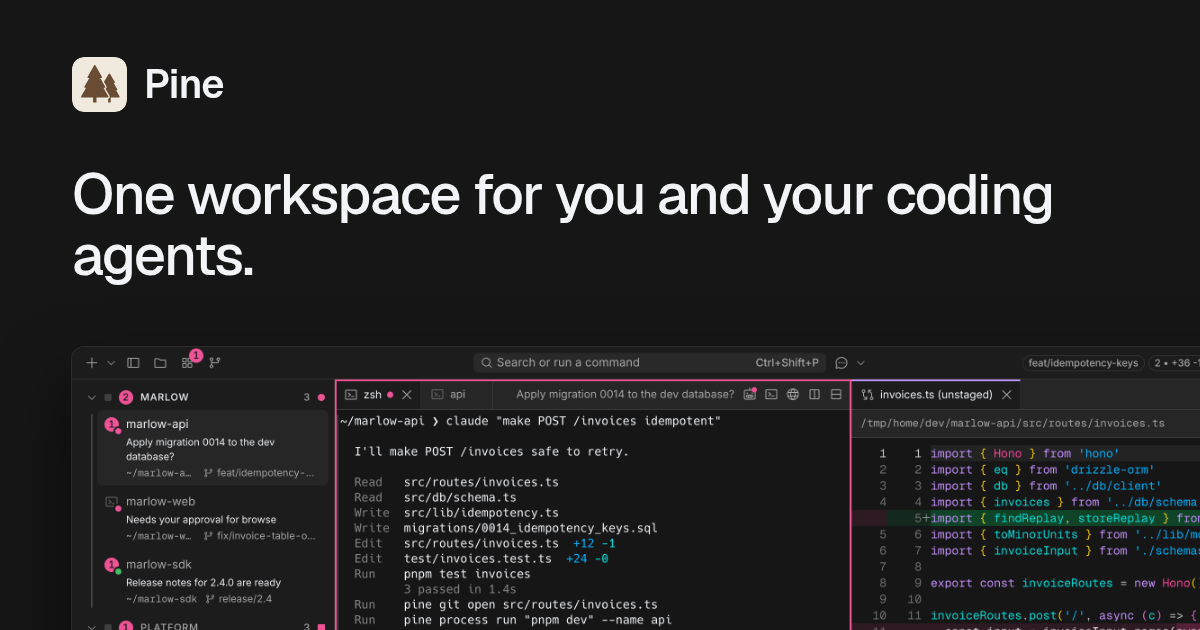
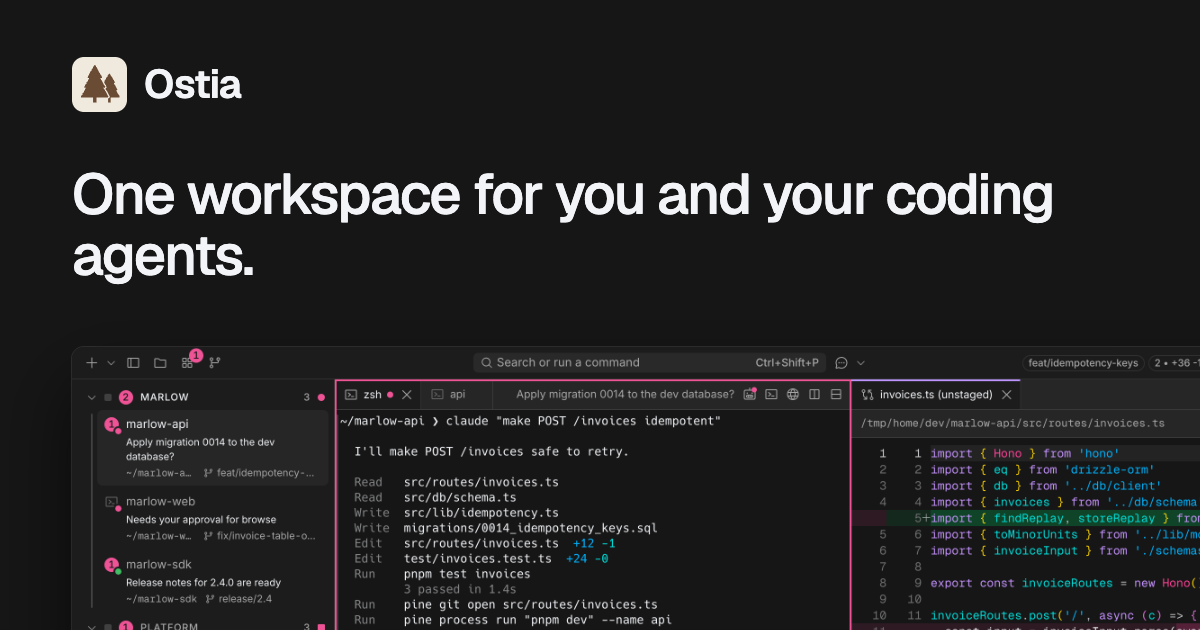
chore: rename Pine to Ostia and read releases from aurigax-ai/ostia

diff --git a/tests/smoke/site.spec.ts b/tests/smoke/site.spec.ts
@@ -5,7 +5,7 @@ const release = JSON.parse(readFileSync(new URL('../fixtures/release.json', impo
 
 async function stubGitHub(page: Page): Promise<void> {
   await page.route('https://api.github.com/**', (route) => {
-    if (route.request().url().endsWith('/repos/aurigax-ai/pine/releases/latest')) {
+    if (route.request().url().endsWith('/repos/aurigax-ai/ostia/releases/latest')) {
       return route.fulfill({ json: release })
     }
     return route.fulfill({ status: 404, json: { message: 'Not Found' } })
@@ -62,7 +62,7 @@ test.describe('with GitHub answering', () => {
     await page.getByRole('tab', { name: 'Drive the browser' }).click()
     await expect(panel).toHaveCount(1)
     await expect(panel.getByRole('img')).toHaveAttribute('alt', /browser pane shows the invoices page/)
-    await expect(page.getByText('opens its page in a browser inside Pine')).toBeVisible()
+    await expect(page.getByText('opens its page in a browser inside Ostia')).toBeVisible()
     await page.getByRole('tab', { name: 'Approve' }).press('Enter')
     await expect(panel).toHaveCount(1)
     await expect(panel.getByRole('img')).toHaveAttribute('alt', /asks to drive the in-app browser/)
@@ -76,14 +76,14 @@ test.describe('with GitHub answering', () => {
     const region = page.locator('#release')
     await expect(region.locator('[data-release="9.8.7"]')).toBeVisible()
     await expect(region).toContainText('March 4, 2027')
-    await expect(region).toContainText('pine-9.8.7.AppImage, 153 MB')
+    await expect(region).toContainText('ostia-9.8.7.AppImage, 153 MB')
     await expect(region.getByRole('link', { name: 'Get the AppImage' })).toHaveAttribute(
       'href',
-      'https://github.com/aurigax-ai/pine/releases/download/v9.8.7/pine-9.8.7.AppImage',
+      'https://github.com/aurigax-ai/ostia/releases/download/v9.8.7/ostia-9.8.7.AppImage',
     )
     await expect(region.getByRole('link', { name: 'Get the tarball' })).toBeVisible()
-    await expect(page.getByLabel('AppImage commands')).toContainText('chmod +x pine-9.8.7.AppImage')
-    await expect(page.getByLabel('Tarball commands')).toContainText('./pine-9.8.7-linux-x64/pine')
+    await expect(page.getByLabel('AppImage commands')).toContainText('chmod +x ostia-9.8.7.AppImage')
+    await expect(page.getByLabel('Tarball commands')).toContainText('./ostia-9.8.7-linux-x64/pine')
     await expect(page.locator('#release-status')).toHaveText('Read from GitHub just now.')
     expect(errors).toEqual([])
   })
@@ -98,11 +98,11 @@ test.describe('with GitHub unreachable', () => {
     await expect(page.locator('#release [data-release]')).toBeVisible()
     await expect(page.locator('#release').getByRole('link', { name: 'Get the AppImage' })).toHaveAttribute(
       'href',
-      /^https:\/\/github\.com\/aurigax-ai\/pine\/releases\/download\//,
+      /^https:\/\/github\.com\/aurigax-ai\/ostia\/releases\/download\//,
     )
     await expect(page.getByRole('link', { name: 'All releases on GitHub' })).toHaveAttribute(
       'href',
-      'https://github.com/aurigax-ai/pine/releases',
+      'https://github.com/aurigax-ai/ostia/releases',
     )
     expect(errors).toEqual([])
   })
@@ -115,7 +115,7 @@ test.describe('without JavaScript', () => {
     await page.goto('./')
     await expect(page.getByRole('tabpanel').getByRole('img')).toHaveAttribute('alt', /sidebar lists six projects/)
     await expect(page.getByRole('heading', { name: 'See which agents need you' })).toBeVisible()
-    await expect(page.getByRole('heading', { name: 'Download Pine for Linux' })).toBeVisible()
+    await expect(page.getByRole('heading', { name: 'Download Ostia for Linux' })).toBeVisible()
   })
 
   test('download renders the build-time snapshot', async ({ page }) => {

diff --git a/tests/unit/release.test.ts b/tests/unit/release.test.ts
@@ -1,7 +1,7 @@
 import { describe, expect, it } from 'vitest'
 import { assetKind, assetLabel, formatBytes, formatDate, isNewer, parseRelease } from '../../src/lib/release'
 
-const base = 'https://github.com/aurigax-ai/pine/releases'
+const base = 'https://github.com/aurigax-ai/ostia/releases'
 const valid = {
   tag_name: 'v0.3.0',
   html_url: `${base}/tag/v0.3.0`,
@@ -47,6 +47,36 @@ describe('parseRelease', () => {
     expect(release?.assets.map((asset) => asset.name)).toEqual(['pine-0.3.0.AppImage'])
   })
 
+  it('reads files named after either product: ostia-* from 0.5.6 on, pine-* before', () => {
+    const release = parseRelease({
+      ...valid,
+      tag_name: 'v0.5.6',
+      html_url: `${base}/tag/v0.5.6`,
+      assets: [
+        { name: 'ostia-0.5.6-linux-x64.tar.gz', size: 1, browser_download_url: `${base}/download/v0.5.6/ostia-0.5.6-linux-x64.tar.gz` },
+        { name: 'ostia-0.5.6.AppImage', size: 1, browser_download_url: `${base}/download/v0.5.6/ostia-0.5.6.AppImage` },
+      ],
+    })
+    expect(release?.assets.map((asset) => [asset.name, asset.kind])).toEqual([
+      ['ostia-0.5.6.AppImage', 'appimage'],
+      ['ostia-0.5.6-linux-x64.tar.gz', 'tarball'],
+    ])
+    expect(parseRelease(valid)?.assets.map((asset) => asset.name)).toEqual([
+      'pine-0.3.0.AppImage',
+      'pine-0.3.0-linux-x64.tar.gz',
+    ])
+  })
+
+  it('refuses links under the repository name it had before the rename', () => {
+    const old = 'https://github.com/aurigax-ai/pine/releases'
+    expect(parseRelease({ ...valid, html_url: `${old}/tag/v0.3.0` })).toBeNull()
+    const release = parseRelease({
+      ...valid,
+      assets: [{ ...valid.assets[1], browser_download_url: `${old}/download/v0.3.0/pine-0.3.0.AppImage` }],
+    })
+    expect(release?.assets).toEqual([])
+  })
+
   it('accepts a release without files and rejects non-objects', () => {
     expect(parseRelease({ ...valid, assets: undefined })?.assets).toEqual([])
     for (const input of [null, 'x', [], { message: 'API rate limit exceeded' }]) {
@@ -75,6 +105,8 @@ describe('formatting', () => {
   it('names file kinds', () => {
     expect(assetKind('pine-0.3.0.AppImage')).toBe('appimage')
     expect(assetKind('pine-0.3.0-linux-x64.tar.gz')).toBe('tarball')
+    expect(assetKind('ostia-0.5.6.AppImage')).toBe('appimage')
+    expect(assetKind('ostia-0.5.6-linux-x64.tar.gz')).toBe('tarball')
     expect(assetKind('checksums.txt')).toBe('other')
     expect(assetLabel({ kind: 'appimage' })).toBe('AppImage')
     expect(assetLabel({ kind: 'tarball' })).toBe('Tarball of the unpacked app')

diff --git a/tests/unit/views.test.ts b/tests/unit/views.test.ts
@@ -28,13 +28,13 @@ describe('releasePanel', () => {
   it('lists the version, date and each file with size and link', () => {
     const release = parseRelease({
       tag_name: 'v0.3.0',
-      html_url: 'https://github.com/aurigax-ai/pine/releases/tag/v0.3.0',
+      html_url: 'https://github.com/aurigax-ai/ostia/releases/tag/v0.3.0',
       published_at: '2026-10-01T16:30:19Z',
       assets: [
         {
           name: 'pine-0.3.0.AppImage',
           size: 167484018,
-          browser_download_url: 'https://github.com/aurigax-ai/pine/releases/download/v0.3.0/pine-0.3.0.AppImage',
+          browser_download_url: 'https://github.com/aurigax-ai/ostia/releases/download/v0.3.0/pine-0.3.0.AppImage',
         },
       ],
     })
@@ -43,6 +43,6 @@ describe('releasePanel', () => {
     expect(panel).toContain('data-release="0.3.0"')
     expect(panel).toContain('October 1, 2026')
     expect(panel).toContain('pine-0.3.0.AppImage, 167 MB')
-    expect(panel).toContain('href="https://github.com/aurigax-ai/pine/releases/download/v0.3.0/pine-0.3.0.AppImage"')
+    expect(panel).toContain('href="https://github.com/aurigax-ai/ostia/releases/download/v0.3.0/pine-0.3.0.AppImage"')
   })
 })

diff --git a/src/lib/site.ts b/src/lib/site.ts
@@ -1,6 +1,6 @@
-export const APP_REPO = 'aurigax-ai/pine'
+export const APP_REPO = 'aurigax-ai/ostia'
 export const SDK_URL = 'https://www.npmjs.com/package/@aurigax-ai/pine-extension-sdk'
 export const APP_REPO_URL = `https://github.com/${APP_REPO}`
 export const RELEASES_URL = `${APP_REPO_URL}/releases`
 export const LATEST_RELEASE_API = `https://api.github.com/repos/${APP_REPO}/releases/latest`
-export const PRODUCT = 'Pine'
+export const PRODUCT = 'Ostia'

diff --git a/src/client/download.ts b/src/client/download.ts
@@ -2,7 +2,7 @@ import { type Release, parseRelease } from '../lib/release'
 import { LATEST_RELEASE_API } from '../lib/site'
 import { releasePanel } from '../lib/views'
 
-const CACHE_KEY = 'pine:latest-release:v1'
+const CACHE_KEY = 'ostia:latest-release:v1'
 const CACHE_MS = 30 * 60 * 1000
 
 function cached(): Release | null {

diff --git a/README.md b/README.md
@@ -1,11 +1,11 @@
-# Pine website
+# Ostia website
 
-The website for [Pine](https://github.com/aurigax-ai/pine), a terminal-first workspace for Linux.
+The website for [Ostia](https://github.com/aurigax-ai/ostia), a terminal-first workspace for Linux.
 It is a static site with two pages:
 
 | Page | What it shows |
 |---|---|
-| `/` | What Pine is, with captures of the real app |
+| `/` | What Ostia is, with captures of the real app |
 | `/download/` | The latest release, its files and sizes, and install steps |
 
 Live at https://aurigax-ai.github.io/. GitHub serves an organisation's root address only from the
@@ -46,7 +46,7 @@ The download page renders without JavaScript from a snapshot saved at build time
 with live data when JavaScript runs.
 
 **Download** (`src/client/download.ts`) asks the GitHub REST API for
-`repos/aurigax-ai/pine/releases/latest`, unauthenticated, and caches the answer in `sessionStorage`
+`repos/aurigax-ai/ostia/releases/latest`, unauthenticated, and caches the answer in `sessionStorage`
 for 30 minutes. `parseRelease` (`src/lib/release.ts`) accepts only a release whose page and file
 links belong to that repository. If the call fails or is rate-limited, the page keeps the snapshot
 and points at the releases page.
